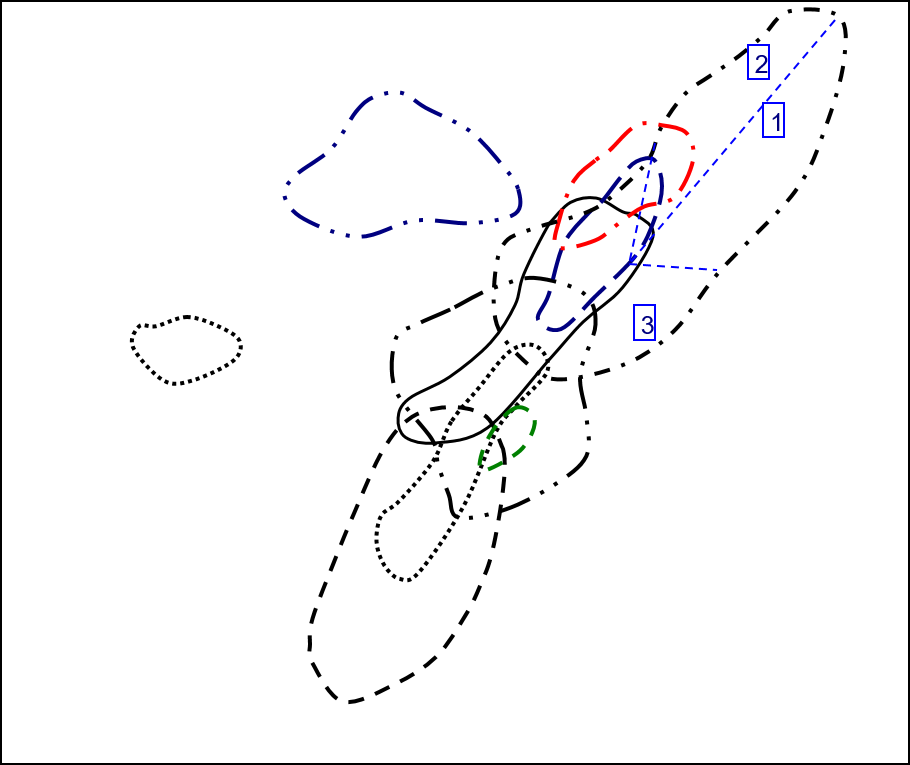
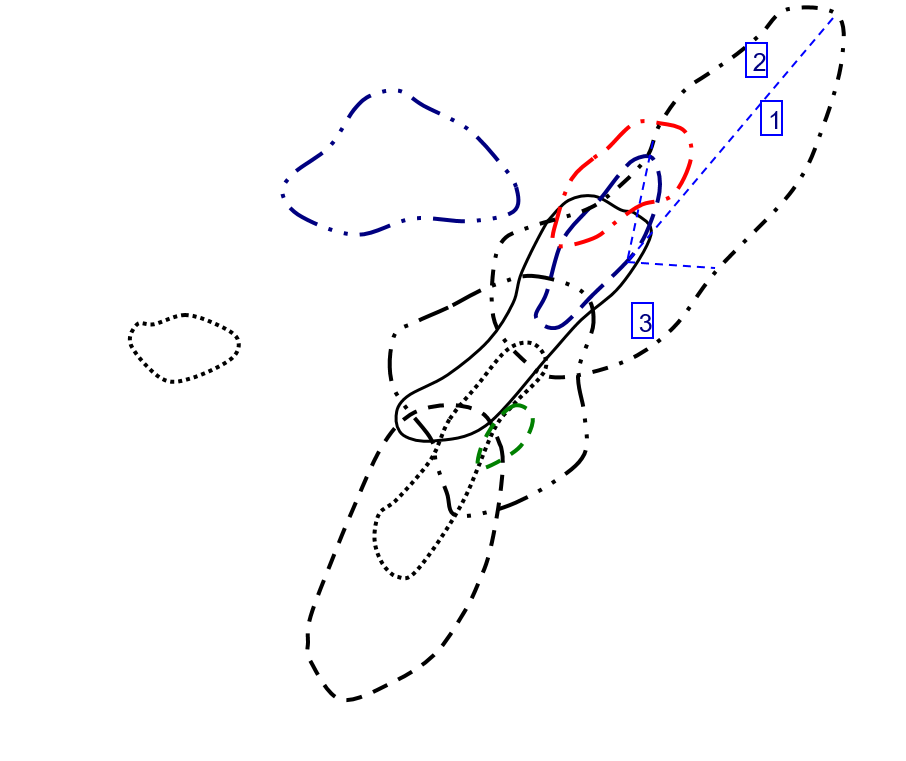
hopefully finished TE scatterplots

diff --git a/software_name/data_processing/TEcharts.py b/software_name/data_processing/TEcharts.py
@@ -1,11 +1,11 @@
-from math import log10
 from os import path
 
-from PIL import Image, ImageDraw, ImageColor
+from PIL import Image
 
-from defaults import LINE_COLORS, \
-    CLASS_COLORS, CLASS_MARKERS, TE_PLOTS, TE_PLOT_AXES, TE_PLOT_IMAGE_DIR,TE_PLOT_FIELDS, TE_PLOT_FIELD_FILE, TE_PLOT_LEGEND_FILE, \
-    CHART_HEIGHT, CHART_WIDTH, PLOT_HEIGHT, PLOT_WIDTH, PLOT_X_OFFSET, PLOT_Y_OFFSET
+from defaults import LINE_COLORS, CLASS_MARKERS, \
+    TE_PLOTS, TE_PLOT_FIELDS, TE_PLOT_AXES, TE_PLOT_IMAGE_DIR, TE_PLOT_FIELD_FILE, TE_PLOT_LEGEND_FILE, \
+    CHART_HEIGHT, CHART_WIDTH, PLOT_HEIGHT, PLOT_WIDTH, PLOT_X_OFFSET, PLOT_Y_OFFSET, \
+    LEGEND_SCALE, LEGEND_X_OFFSET, LEGEND_Y_OFFSET
 
 
 def line_chart(sheet_data, sheet_name, workbook):
@@ -201,18 +201,7 @@ def draw_scatterplot(x_column, y_column, class_column, classifiers, sheet_name, 
         current_series_name: []
     }
 
-    #x_axis_min = 1
-    #x_axis_max = 10
-    #y_axis_min = 1
-    #y_axis_max = 10
-
     for i in range(1, len(classifiers)):
-
-        # keep track of x/y min/max
-        #x_axis_min = x_axis_min/10 if classifiers[i][x_column] < x_axis_min else x_axis_min
-        #x_axis_max = x_axis_max*10 if classifiers[i][x_column] > x_axis_max else x_axis_max
-        #y_axis_min = y_axis_min/10 if classifiers[i][y_column] < y_axis_min else y_axis_min
-        #y_axis_max = y_axis_max*10 if classifiers[i][y_column] > y_axis_max else y_axis_max
 
         if current_series_name == classifiers[i][class_column]:
             # still in same series - update end index
@@ -310,13 +299,28 @@ def draw_scatterplot(x_column, y_column, class_column, classifiers, sheet_name, 
     scatterplot_worksheet.insert_chart('A1', scatterplot)
 
     if TE_PLOT_FIELDS[plot_name]:
+        field_image_file = path.join(TE_PLOT_IMAGE_DIR, TE_PLOT_FIELD_FILE.format(plot_name))
+        image = Image.open(field_image_file)
+        image_width, image_height = image.size
         scatterplot_worksheet.insert_image(
             'A1',
-            path.join(TE_PLOT_IMAGE_DIR, TE_PLOT_FIELD_FILE.format(plot_name)),
+            field_image_file,
             {
                 'x_offset': int(PLOT_X_OFFSET*CHART_WIDTH),
                 'y_offset': int(PLOT_Y_OFFSET*CHART_HEIGHT),
-                'x_scale': 0.7,
-                'y_scale': 0.7
+                'x_scale': (CHART_WIDTH*PLOT_WIDTH)/image_width,
+                'y_scale': (CHART_HEIGHT*PLOT_HEIGHT)/image_height
+            }
+        )
+
+        legend_image_file = path.join(TE_PLOT_IMAGE_DIR, TE_PLOT_LEGEND_FILE.format(plot_name))
+        scatterplot_worksheet.insert_image(
+            'A1',
+            legend_image_file,
+            {
+                'x_offset': int(LEGEND_X_OFFSET * CHART_WIDTH),
+                'y_offset': int(LEGEND_Y_OFFSET * CHART_HEIGHT),
+                'x_scale': LEGEND_SCALE,
+                'y_scale': LEGEND_SCALE
             }
         )

diff --git a/software_name/defaults.py b/software_name/defaults.py
@@ -35,7 +35,8 @@ LINE_COLORS = [
     '#FF6600',  # orange
     '#FF1A1A',  # red
 ]
-# colors and markers used for scatterplots for each class of CART1
+
+# colors and markers used for scatterplots for TE plots
 CLASSES = [
     "Carbonite",
     "Granitoid(>5% SiO2)",
@@ -72,6 +73,7 @@ CLASS_MARKERS = {
     CLASSES[8]: {'type': 'star',      'size': 7, 'border': {'color': CLASS_COLORS.get(CLASSES[8], '#000000')}, },
     CLASSES[9]: {'type': 'long_dash', 'size': 7, 'border': {'color': CLASS_COLORS.get(CLASSES[9], '#000000')}, 'fill': {'color': CLASS_COLORS.get(CLASSES[9], '#000000')}},
 }
+# Each TE scatterplot, and if they have a field image, and what axes to use for each
 TE_PLOTS = [
     "Y-U",
     "Y-Th",
@@ -112,14 +114,19 @@ TE_PLOT_AXES = {
     TE_PLOTS[9]:  (0.1,   100000, 0.01, 100000),
     TE_PLOTS[10]: (0.001, 10,     0.1,  1000),
 }
-# Used for generating charts and convex hull images
+# Size of chart and its elements for TE scatterplots, see for more info:
+# http://xlsxwriter.readthedocs.io/working_with_charts.html#chart-layout
 CHART_WIDTH = 1100
 CHART_HEIGHT = 1000
-# expressed as percentages of CHART_WIDTH and CHART_HEIGHT
+# expressed as percentages of CHART_WIDTH and CHART_HEIGHT:
 PLOT_X_OFFSET = 0.1
 PLOT_Y_OFFSET = 0.07
 PLOT_WIDTH = 0.58
 PLOT_HEIGHT = 0.55
+LEGEND_X_OFFSET = 0.1
+LEGEND_Y_OFFSET = 0.7
+LEGEND_SCALE = 0.7  # percentage scale of original size
+
 # where to store TE plot fields image files
 TE_PLOT_IMAGE_DIR = "te_plot_fields"
 TE_PLOT_FIELD_FILE = "{}.PNG"
